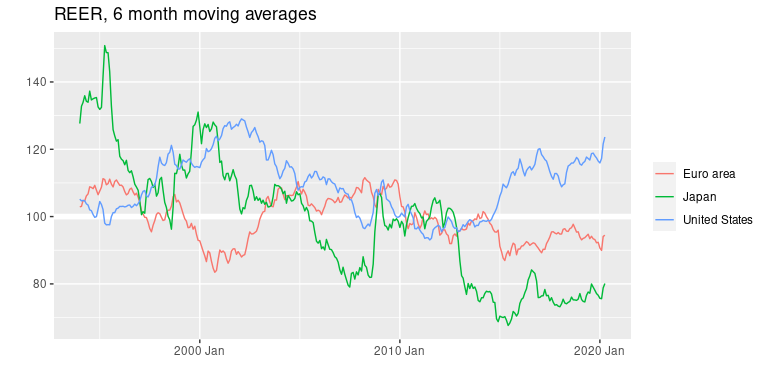
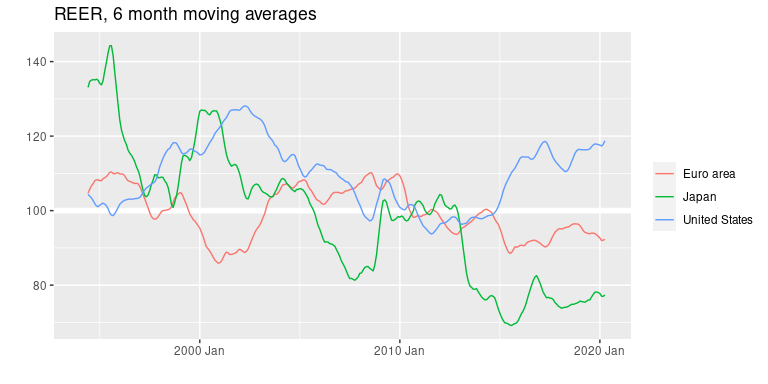
correct tq_ma() by studying slider package

diff --git a/README.md b/README.md
@@ -38,7 +38,7 @@ Mitsuo Shiota
 status](https://travis-ci.org/mitsuoxv/tqr.svg?branch=master)](https://travis-ci.org/mitsuoxv/tqr)
 <!-- badges: end -->
 
-Updated: 2020-06-07
+Updated: 2020-06-08
 
 # tqr: add-on to tsibble, inspired by tidyquant
 
@@ -68,7 +68,7 @@ to build this package to facilitate my work.
 
 This package is only for my own use for now. “You” means “future me”.
 
-You can install by:
+You can install the development version with:
 
 ``` r
 remotes::install_github("mitsuoxv/tqr")
@@ -258,6 +258,7 @@ eer_ts %>%
     title = "REER, 6 month moving averages",
     x = "", y = "", color = ""
   )
+#> Warning: Removed 15 row(s) containing missing values (geom_path).
 ```
 
 <img src="man/figures/README-tq_ma-1.png" width="100%" />
@@ -465,7 +466,9 @@ defl_gr1 %>%
 
 You can utilize functions in zoo package in `cal_factory_zoo`. Here, for
 example, I utilize `zoo::rollmean`, and manufacture `tq_rollmean`, which
-has the same functionality of `tq_ma`.
+has the same functionality of `tq_ma`. Although the output is not
+exactly the same due to floating point calculations, you can consider it
+as the same with `near` tolerance.
 
 ``` r
 tq_rollmean <- cal_factory_zoo(
@@ -475,6 +478,17 @@ tq_rollmean <- cal_factory_zoo(
   function(idx) idx,
   function(itv) itv
 )
+
+all_equal(
+   tq_rollmean(eer_ts, k = 3, align = "right", fill = NA)[, "date"],
+   tq_ma(eer_ts, n = 3)[, "date"]
+)
+#> [1] TRUE
+
+near(tq_rollmean(eer_ts, k = 3, align = "right", fill = NA)$Algeria,
+     tq_ma(eer_ts, n = 3)$Algeria) %>%
+  all(na.rm = TRUE)
+#> [1] TRUE
 ```
 
 Speed is comparable. If you need speed, don’t mind which function to
@@ -483,20 +497,20 @@ choose, instead consider to spread to wide format.
 ``` r
 system.time(tq_ma(eer_ts, n = 3))
 #>    user  system elapsed 
-#>   0.323   0.001   0.323
+#>     0.3     0.0     0.3
 system.time(tq_rollmean(eer_ts, k = 3, align = "right", fill = NA))
 #>    user  system elapsed 
-#>   0.513   0.000   0.513
+#>   0.498   0.000   0.498
 
 eer_ts_long <- eer_ts %>% 
   gather(key = "area", value = "value", -date, -symbol)
 
 system.time(tq_ma(eer_ts_long, n = 3))
 #>    user  system elapsed 
-#>   1.091   0.003   1.095
+#>   1.060   0.000   1.062
 system.time(tq_rollmean(eer_ts_long, k = 3, align = "right", fill = NA))
 #>    user  system elapsed 
-#>   1.574   0.000   1.575
+#>   1.500   0.000   1.501
 ```
 
 ## cal\_factory\_ts: function factory for calculation utilizing ts class
